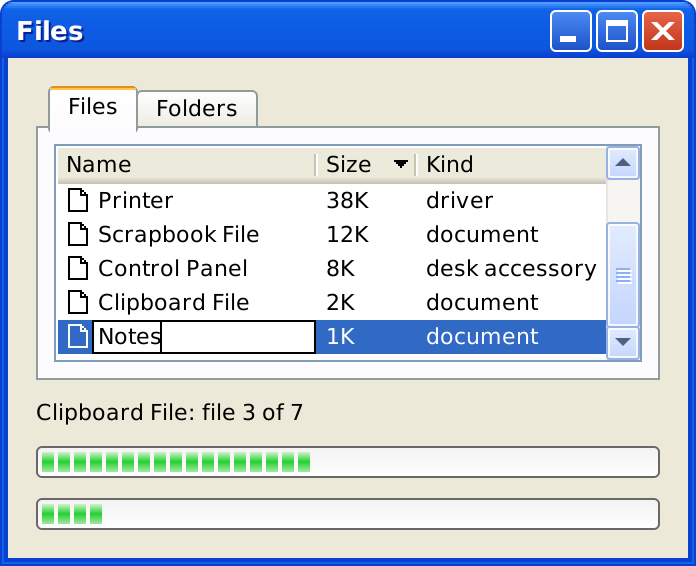
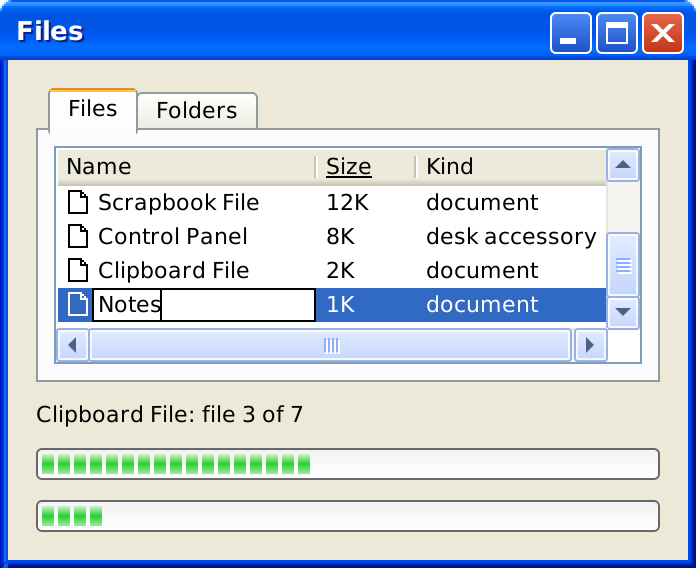
Refine the Two Thousand and One window frame.
Update the title bar shading, button placement, and four-pixel border.
Let theme colors continue to apply, and refresh the style image.

diff --git a/styles/twothousandone/twothousandone.c b/styles/twothousandone/twothousandone.c
@@ -240,29 +240,53 @@ static void popup(const press_part *p, box r) {
     arrow(drop.x + drop.w / 2, drop.y + drop.h / 2, 4, 1, SKY_INK);
 }
 
-/* A window's frame: blue, deep at the edges and light along the top of
- * the title bar, with the top corners rounded off and the title in white.
- * Behind others it is paler. */
+/* A window's title bar, row by row from its top, as the period's desktop
+ * shaded it: a lit line just under its rim, deepest a quarter of the way
+ * down, lighter again low down, and a dark last row. Behind others it is
+ * pale. Read off the period's desktop pixel by pixel; every one is turned
+ * to the theme's blue by like(). */
+static const uint32_t TITLE[30] = {
+    0x0058ee, 0x3f97ff, 0x2b90ff, 0x0372ff, 0x0365f1, 0x005ce9, 0x0058e6, 0x0054e3, 0x0054e3, 0x0054e3,
+    0x0055e5, 0x0055e5, 0x0055e5, 0x0055e5, 0x0055e5, 0x0055ea, 0x0055ea, 0x0058ee, 0x005bf2, 0x005af5,
+    0x0060f9, 0x0164f9, 0x026afe, 0x026afe, 0x026afe, 0x026afe, 0x0065fd, 0x0060fc, 0x004de3, 0x0043cf,
+};
+static const uint32_t TITLE_BEHIND[30] = {
+    0x688de0, 0x98b2e8, 0x9db9eb, 0x8aace7, 0x7ea2e4, 0x7b9de1, 0x7a99e0, 0x7996de, 0x7996de, 0x7996de,
+    0x7a96df, 0x7a96df, 0x7a96df, 0x7a96e0, 0x7b97e0, 0x7b99e1, 0x7b99e1, 0x7d9be3, 0x7d9be3, 0x7f9fe6,
+    0x7fa2e6, 0x80a5e7, 0x81a7e8, 0x82a9e9, 0x82a9e9, 0x81a7e8, 0x80a5e7, 0x7e9de5, 0x7a93df, 0x7a93df,
+};
+/* The four pixels of the edge at the left, from the outside in, and at the
+ * right and the foot, from the inside out; and their pale kin behind. */
+static const uint32_t EDGE_LEFT[4] = {0x0019cf, 0x0732d9, 0x166aee, 0x0855dd};
+static const uint32_t EDGE_OTHER[4] = {0x0048f1, 0x003edc, 0x001ea1, 0x00138c};
+static const uint32_t EDGE_LEFT_BEHIND[4] = {0x5b68cd, 0x7276d1, 0x747cd5, 0x7686d9};
+static const uint32_t EDGE_OTHER_BEHIND[4] = {0x7686d9, 0x747cd5, 0x7276d1, 0x5b68cd};
+
+/* A window's frame: the title bar as above, its top corners rounded off,
+ * the title in white with a soft shadow; down the sides and along the
+ * foot an edge four pixels deep, lighter inside than out. */
 static void frame(const press_part *p, box r) {
     int active = has(p, PRESS_STATE_ENABLED), line = line_height();
-    uint32_t deep = active ? like(BLUE, 0x0a3fcf) : like(BLUE, 0x7a8fd0), mid = active ? like(BLUE, 0x0f62e8) : like(BLUE, 0x8ba3e0), high = active ? like(BLUE, 0x4d9bff) : like(BLUE, 0xa9bdf0);
-    /* the whole shape, rounded at the top only */
-    round_fill((box){r.x, r.y, r.w, p->a + 8}, 7, deep, deep);
-    fill((box){r.x, r.y + p->a, r.w, r.h - p->a}, deep);
-    box bar = {r.x + 1, r.y + 1, r.w - 2, p->a - 1};
-    for (int y = 0; y < bar.h; y++) {
-        float t = (float)y / (bar.h - 1);
-        uint32_t c = t < 0.12f ? mix(high, mid, t / 0.12f) : t < 0.85f ? mix(mid, mix(mid, deep, 0.35f), (t - 0.12f) / 0.73f) : mix(mix(mid, deep, 0.35f), deep, (t - 0.85f) / 0.15f);
-        for (int x = bar.x; x < bar.x + bar.w; x++) {
-            float cover = covered(outside((box){r.x + 1, r.y + 1, r.w - 2, p->a + 8}, 6, x, bar.y + y));
-            if (cover > 0) blend(x, bar.y + y, c, cover);
+    const uint32_t *rows = active ? TITLE : TITLE_BEHIND;
+    const uint32_t *left = active ? EDGE_LEFT : EDGE_LEFT_BEHIND, *other = active ? EDGE_OTHER : EDGE_OTHER_BEHIND;
+    int t = p->a, e = 4;
+    /* the edges, and the inside, which the window covers */
+    fill((box){r.x, r.y + t, r.w, r.h - t}, like(BLUE, other[0]));
+    for (int i = 0; i < e; i++) {
+        fill((box){r.x + i, r.y + t, 1, r.h - t}, like(BLUE, left[i]));
+        fill((box){r.x + r.w - 1 - i, r.y + t, 1, r.h - t - i}, like(BLUE, other[e - 1 - i]));
+        fill((box){r.x + i, r.y + r.h - 1 - i, r.w - 2 * i, 1}, like(BLUE, other[e - 1 - i]));
+    }
+    /* the title bar, its rows spread over its height, rounded at the top */
+    box shape = {r.x, r.y, r.w, t + 8};
+    for (int y = 0; y < t; y++) {
+        uint32_t c = like(BLUE, rows[t > 1 ? y * 29 / (t - 1) : 0]);
+        for (int x = r.x; x < r.x + r.w; x++) {
+            float cover = covered(outside(shape, 7, x, r.y + y));
+            if (cover > 0) blend(x, r.y + y, c, cover);
         }
     }
-    /* the edges: a lighter line just inside the dark one */
-    fill((box){r.x + 1, r.y + p->a, 1, r.h - p->a - 1}, mid);
-    fill((box){r.x + r.w - 2, r.y + p->a, 1, r.h - p->a - 1}, mid);
-    fill((box){r.x + 1, r.y + r.h - 2, r.w - 2, 1}, mid);
-    int ty = r.y + (p->a - line) / 2 + 1;
+    int ty = r.y + (t - line) / 2 + 1;
     words(p->text, r.x + 9, ty + 1, with_alpha(like(BLUE, 0x0a1883), active ? 0.9f : 0.3f));
     words(p->text, r.x + 8, ty, active ? WHITE : like(BLUE, 0xd8e4f8));
 }
@@ -433,14 +457,14 @@ static void metrics(press_metrics *m) {
     m->menu_item_height = 19;
     m->menu_shadow = 4;
     /* a frame of its own, with its menus in it */
-    m->frame_title = 29;
+    m->frame_title = 30;
     m->ok_leads = 1; /* OK, then Cancel */
     m->frame_border = 4;
     m->frame_button_width = 21;
     m->frame_button_height = 21;
     m->frame_button_gap = 2;
     m->frame_button_inset = 6;
-    m->frame_button_rise = 1;
+    m->frame_button_rise = 2;
     m->frame_left = 0;
     m->frame_right = 0x231; /* put away, make large, close */
     m->menu_in_window = 1;

diff --git a/CHANGELOG.md b/CHANGELOG.md
@@ -43,6 +43,10 @@ on 18 November 2026.
   come with the library.
 - A title bar may have a button that puts its window behind the others,
   through a Wayland protocol of PRESS's own, `press_depth_v1`.
+- Two Thousand and One's window frame is measured from the period's
+  desktop: a title bar 30 pixels high, shaded row for row as its title bars
+  were (and paler behind), with its buttons six pixels down, and an edge
+  four pixels deep, lighter inside than out.
 
 ### Installing
 
